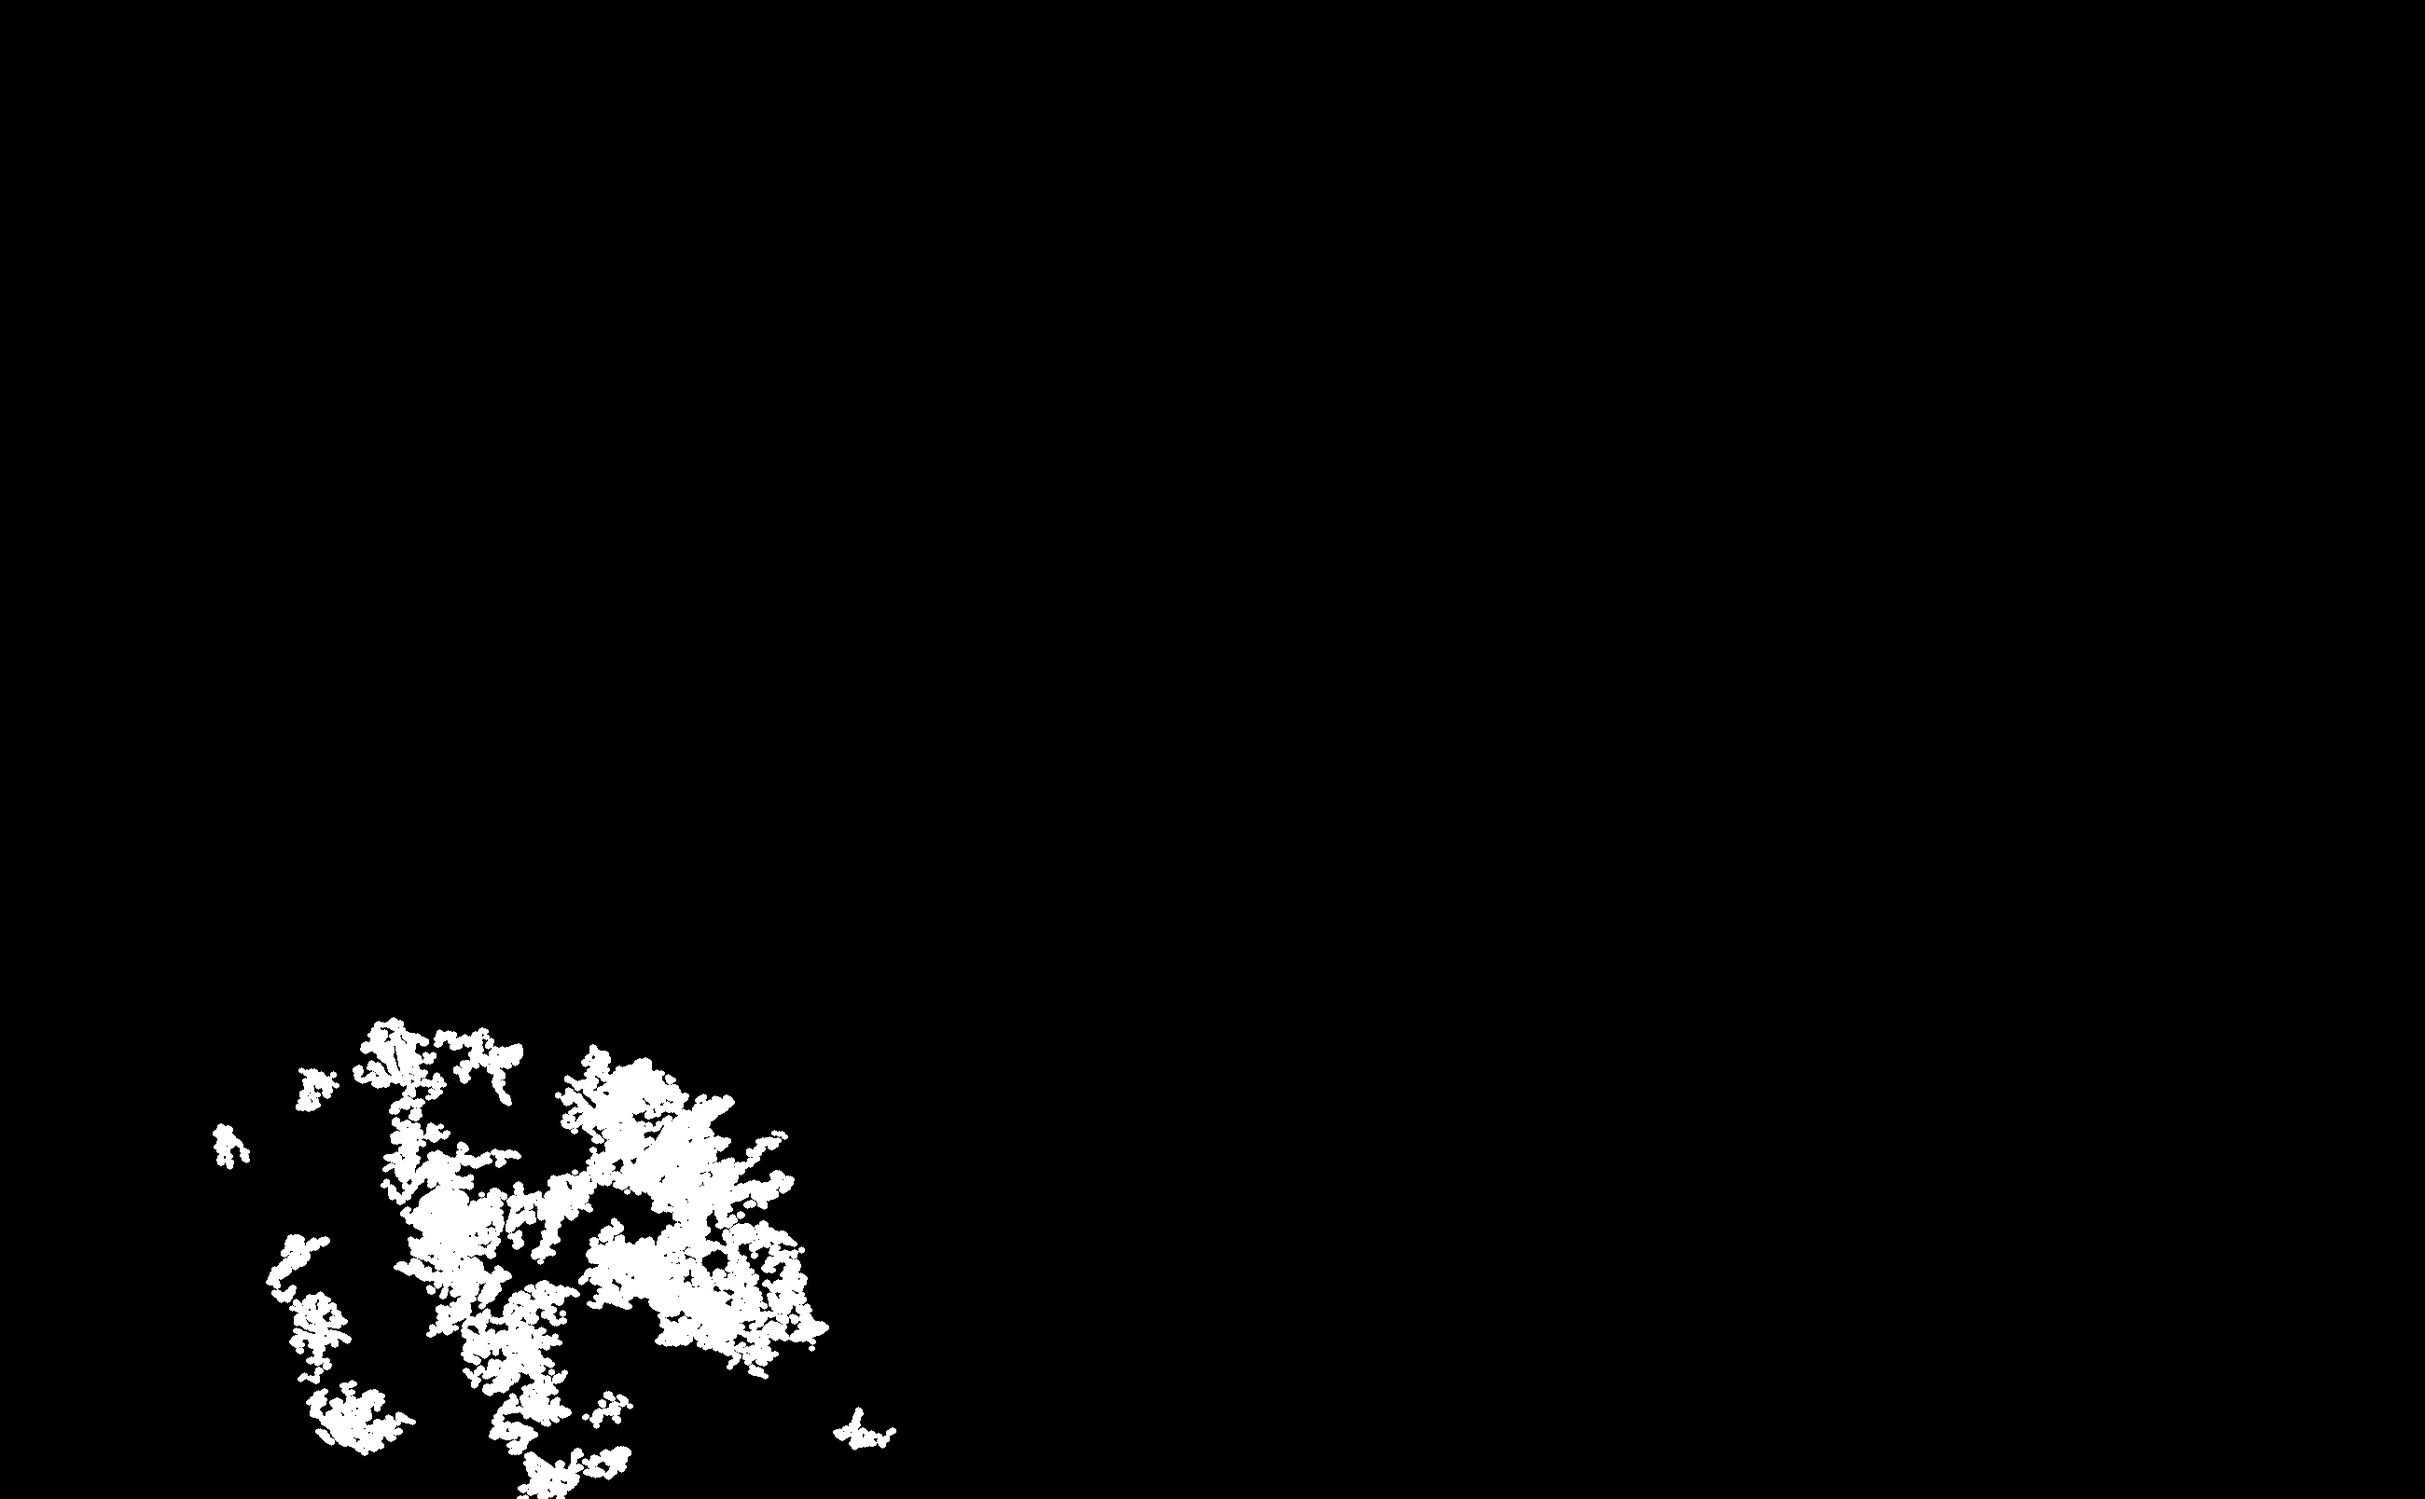
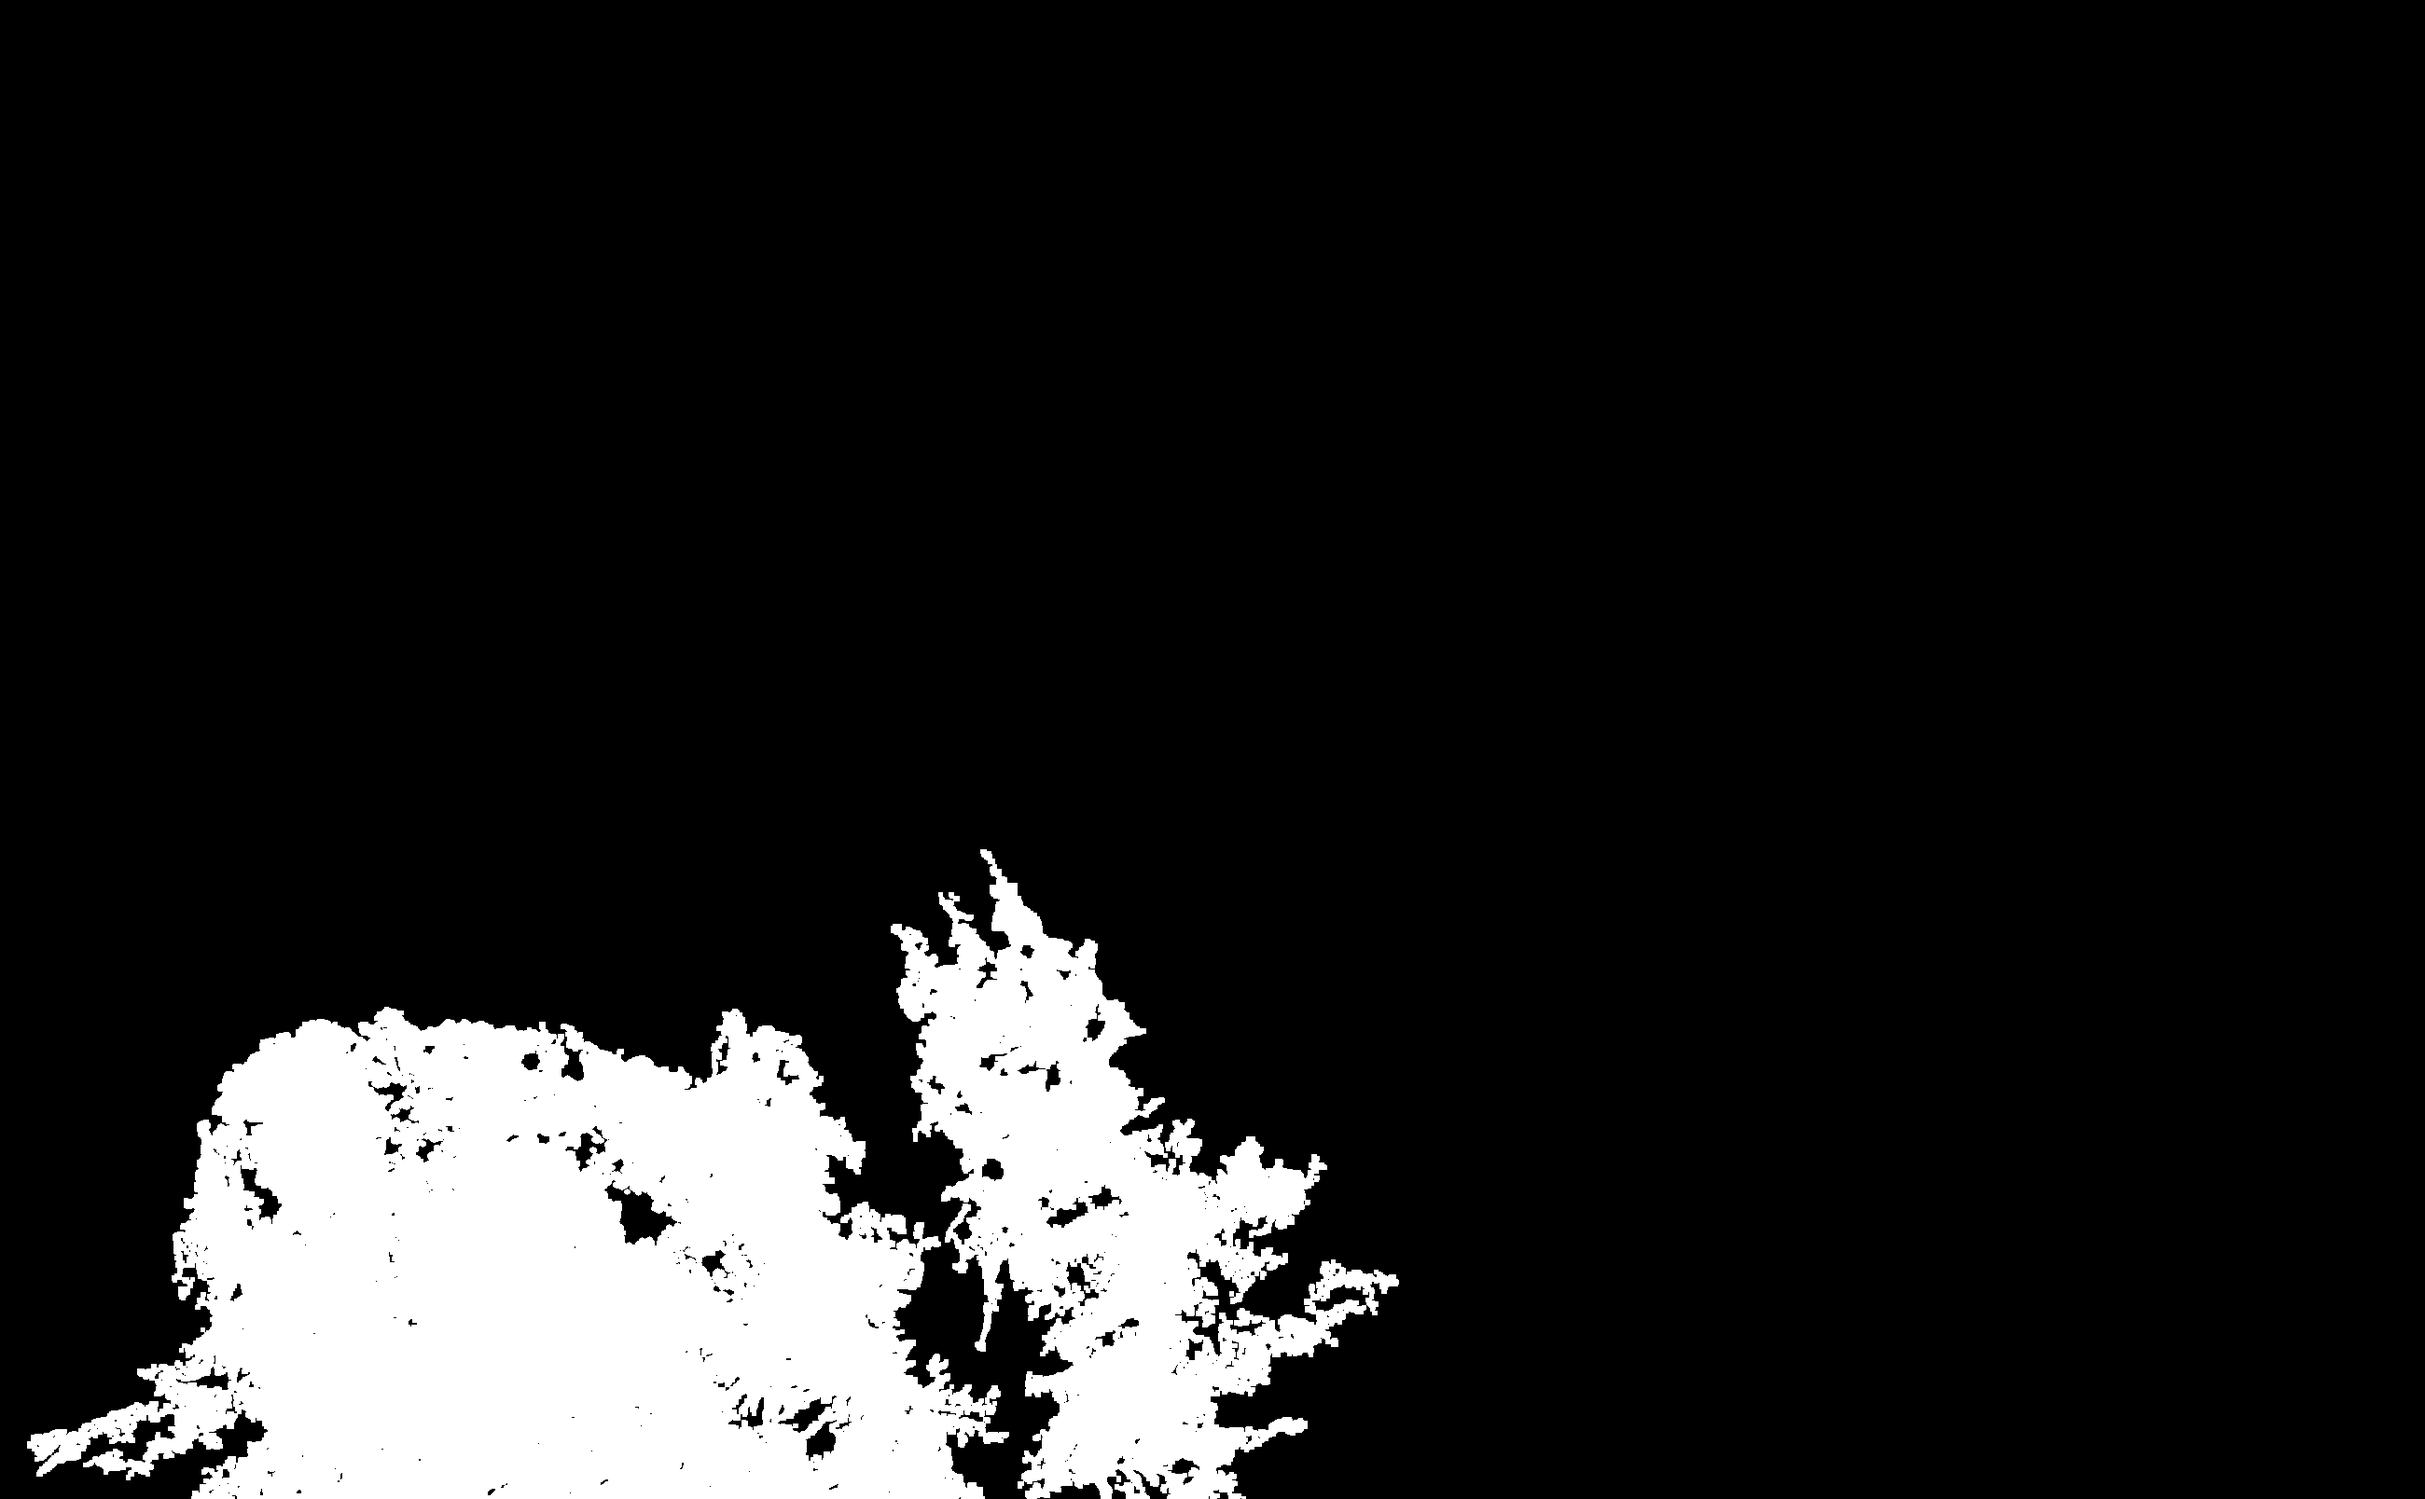
Humo fino con la True Color y README al día con el arreglo del mar
- humo fino: gris (saturación < Otsu, tope 0,15) en la True Color, creciendo solo desde humo denso o focos reales
  y sin nubes muy blancas; Ávila 2,5 % -> 12,4 %, Niebla 2,5 % -> 20,1 %, extra 0,6 % -> 5,2 %; 0 % sin incendio
- la cicatriz sigue usando solo el humo denso (smoke_dense): resultados idénticos
- README: agua, humo y prueba con dos escenas nuevas (ya no ciegas)

Changed region(s): [[0.0, 0.5597, 0.5919, 1.0]]

diff --git a/core/spectral.py b/core/spectral.py
@@ -83,6 +83,7 @@ def bands(scene: dict) -> dict:
         out["B04_tc"] = pnorm(tc[..., 0].astype(np.float32), stats)
         out["B03"] = pnorm(tc[..., 1].astype(np.float32), stats)
         out["B02"] = pnorm(tc[..., 2].astype(np.float32), stats)
+        out["_tc"] = tc   # True Color original: el humo fino se ve aquí (gris, poco saturado), no en la SWIR
         calibration = calibrate(tc, swir, valid)
         if calibration is not None:
             out["calib"] = calibration
@@ -185,12 +186,40 @@ def _otsu_tail(x: np.ndarray, valid: np.ndarray, q: float) -> float:
     return float(threshold_otsu(v))
 
 
+def thin_smoke_tc(b: dict, seeds: np.ndarray, water: np.ndarray, valid: np.ndarray, land: np.ndarray) -> np.ndarray:
+    """Humo FINO con la True Color. La SWIR atraviesa el humo fino, así que solo ve el núcleo denso (turquesa).
+    En la True Color el humo es gris: poco saturado (medido 0,03-0,13) frente a suelo, ciudad y monte (0,22-0,51).
+    Semillas = humo denso de la SWIR + píxeles muy calientes (fuego). Crece por las zonas grises CONECTADAS a ellas,
+    así una ciudad o un campo gris lejos del incendio no entra. Las nubes blancas se excluyen por brillo."""
+    from skimage.morphology import reconstruction
+    tc = b["_tc"].astype(np.float32)
+    mx, mn = tc.max(axis=2), tc.min(axis=2)
+    sat = (mx - mn) / (mx + 1.0)
+    bright = tc.mean(axis=2)
+    if not land.any():
+        return np.zeros(valid.shape, bool)
+    # gris frente a color: Otsu por escena, pero nunca por encima de 0,15 (humo medido 0,03-0,13; tierra 0,20-0,51,
+    # incluida la tierra de una pasada velada de la True Color, ~0,20)
+    t_sat = min(float(threshold_otsu(sat[land][::7])), 0.15)
+    # nube = blanca y muy clara (medido ~246); el humo denso más claro medido ~183
+    t_cloud = min(float(np.percentile(bright[valid], 99)), 210.0)
+    t_dark = float(np.percentile(bright[valid], 10))                  # mar/agua o sombra muy oscura: no es humo
+    grey = (sat < t_sat) & (bright < t_cloud) & (bright > t_dark) & valid & ~water
+    grey = cv2.morphologyEx(grey.astype(np.uint8), cv2.MORPH_OPEN, np.ones((5, 5), np.uint8)).astype(bool)
+    from core.fire import fire_mask                                       # semilla = focos de verdad (naranja + brillo),
+    seed = (seeds | cv2.dilate(fire_mask(b).astype(np.uint8), np.ones((9, 9), np.uint8)).astype(bool)) & grey  # no solo brillo (la nube también brilla)
+    if not seed.any():
+        return np.zeros(valid.shape, bool)
+    grown = reconstruction(seed.astype(np.uint8), grey.astype(np.uint8), method="dilation").astype(bool)
+    return _remove_small(grown, int(0.0005 * valid.size))
+
+
 def exclusion_masks(b: dict, ind: dict) -> dict:
     """Máscaras booleanas HxW: water, cloud, bare, urban, smoke (todas adaptativas, por percentiles/Otsu)."""
     valid = b["valid"]
     shape = valid.shape
     if not valid.any():
-        return {key: np.zeros(shape, bool) for key in ("water", "cloud", "bare", "urban", "smoke")}
+        return {key: np.zeros(shape, bool) for key in ("water", "cloud", "bare", "urban", "smoke", "smoke_dense")}
     d = _diag(shape)
     mx = 1 - ind["WATER"]                       # máximo de los 3 canales SWIR
     bright, sat, nbr, red = ind["BRIGHT"], ind["SAT"], ind["NBR"], ind["RED_DOM"]
@@ -211,6 +240,7 @@ def exclusion_masks(b: dict, ind: dict) -> dict:
     smoke = (cyan > max(t_s, 0.15)) & (sat > 0.15) & valid & ~water
     smoke = cv2.morphologyEx(smoke.astype(np.uint8), cv2.MORPH_OPEN, k_open).astype(bool)
     smoke = _remove_small(smoke, int(0.0002 * valid.size))
+    smoke_dense = smoke
 
     # TIERRA CLARA / CAMPOS SECOS: muy brillante en SWIR (lo quemado y el matorral son oscuros)
     t_b = float(np.percentile(bright[land], 75))
@@ -233,7 +263,11 @@ def exclusion_masks(b: dict, ind: dict) -> dict:
                              cv2.getStructuringElement(cv2.MORPH_ELLIPSE, (k * 8 + 1, k * 8 + 1))).astype(bool)
     urban = _remove_small(urban, int(0.002 * valid.size))
 
-    return {"water": water, "cloud": cloud, "bare": bare, "urban": urban, "smoke": smoke}
+    if "_tc" in b:
+        smoke = smoke_dense | thin_smoke_tc(b, smoke_dense, water, valid, land)
+    # "smoke" = denso (SWIR) + fino (True Color), para mostrar y para A. "smoke_dense" = solo el de la SWIR, que es el que
+    # usa la cicatriz: así el cambio del humo no altera la segmentación ya medida.
+    return {"water": water, "cloud": cloud, "bare": bare, "urban": urban, "smoke": smoke, "smoke_dense": smoke_dense}
 
 
 def save_mask_debug(scene: dict, masks: dict, root: str = "debug") -> str:

diff --git a/core/segmentation.py b/core/segmentation.py
@@ -152,7 +152,7 @@ def burn_details(b: dict, ind: dict, masks: dict, variant: str = DEFAULT_VARIANT
         areas = np.where(keep, st[:, cv2.CC_STAT_AREA], 0)
         big = areas.max()
         near = np.zeros(valid.shape, np.uint8)
-        near[masks["smoke"] | fire_like(ind, b)] = 1
+        near[masks.get("smoke_dense", masks["smoke"]) | fire_like(ind, b)] = 1
         near = cv2.dilate(near, _ellipse(int(NEAR_FRAC * d) * 2 + 1)).astype(bool)
         # Cerca del humo/fuego NO basta: una mancha suelta junto a un foco aislado (campo, mina, parcela rosa) no es
         # cicatriz. Además tiene que estar pegada a la mancha principal (el frente de un incendio sale de su cicatriz).

diff --git a/README.md b/README.md
@@ -68,8 +68,8 @@ Tarda **entre 0,2 y 2,6 s por escena** en un portátil.
 ### 3. Máscaras de descarte
 | Máscara | Regla | Fiabilidad |
 |---|---|---|
-| Agua | Histéresis: núcleo muy negro en los tres canales (cola del 3 %) que crece por lo oscuro (cola del 10 %) | Buena con embalses; confunde algo de ceniza muy negra |
-| Humo | Turquesa en la SWIR: B8A y B04 claramente por encima de B12 | Coge el humo denso |
+| Agua | Hueco del histograma de max(B12, B8A) con los valores originales: el agua forma un grupo muy oscuro separado de la tierra. Vale igual con un embalse que con media imagen de mar. Después, **todos los percentiles se calculan solo sobre tierra** | Buena con embalses y con mar (comprobado en dos escenas costeras) |
+| Humo | **Denso:** turquesa en la SWIR (B8A y B04 claramente por encima de B12). **Fino:** gris en la True Color (saturación < Otsu, como mucho 0,15; medido 0,03–0,13 en humo frente a 0,20–0,51 en suelo, ciudad y monte), creciendo solo desde el humo denso o desde focos reales, sin nubes muy blancas | Buena en las 5 escenas con incendio; deja huecos en el humo más claro (sobre el mar en Tenerife). La cicatriz usa solo el denso (`smoke_dense`), así que este cambio no la altera |
 | Tierra clara | Muy brillante en la SWIR | Razonable |
 | Nube | Muy brillante y poco saturada; si hay True Color, también clara allí | Sin escena nubosa para comprobarla bien |
 | Ciudad | Contraste fino denso | **Experimental:** también marca parcelas. No se usa para restar área |
@@ -127,6 +127,14 @@ Medido **por focos** (cada mancha es un objeto, con 5 px de tolerancia):
 - **Otsu siempre parte la escena en dos, haya incendio o no.** En una escena de junio sin incendio (`Browser_images-9`), v2 marcaba un 8,5 % de matorral pardo; con solo el NBR normalizado, otra escena del 24-06 (antes del incendio) seguía dando un 21 %. Separa el NBR *original*: en las cicatrices reales la mediana es −0,10 a −0,27 (B12 sobre B8A, rojizas) y en ese terreno seco es +0,13 (verdoso). Con esa regla las 4 escenas sin incendio dan 0,00 % y las reales no cambian.
 - **Solo SWIR:** el resultado es idéntico con o sin True Color (Niebla 7,79 % en los dos casos). Hoy la True Color solo se usa para la máscara de nubes y para dibujar.
 - **Calibración True Color ↔ SWIR:** B04 aparece en las dos imágenes (rojo de la True Color, azul de la SWIR). Una recta robusta los relaciona con correlación 0,93–0,95: azul SWIR ≈ 1,26·x − 101 (Ávila-Madrid), 1,48·x − 140 (Niebla) y 1,11·x − 81 (extra). Es un diagnostico de semejanza entre canales; no certifica por si solo la alineacion geometrica. La hipótesis de que esa recta también vale para el verde y el rojo de la SWIR **no se pudo comprobar**, porque son bandas que la True Color no tiene.
+
+## Prueba con dos escenas nuevas (costa con mar y Tenerife)
+
+Con el código marcado `pre-examen` se pasaron una vez y sin tocar nada:
+- **Focos:** bien en las dos (frentes activos detectados). En Tenerife, unos 8 falsos sobre conos volcánicos rojizos.
+- **Cicatriz: 0 % en las dos.** Fallo de diseño: con mucho mar, el mar arrastraba los percentiles y el agua se detectaba mal (la regla suponía poca agua).
+
+Se corrigió (agua por hueco del histograma, percentiles solo sobre tierra, evidencia `NBR original < −0,05` y `KEEP_FRAC` 0,10). La costa pasó a 9,5 %, con la cicatriz bien dibujada. Tenerife queda en 0,2 %: su cicatriz está casi toda bajo el humo. Las demás escenas no empeoran (práctica IoU 0,56; escenas sin incendio 0 %; marcas de Jesús 0,99). **Estas dos escenas ya no son examen ciego.**
 
 ## Medida contra una referencia (IoU)
 
